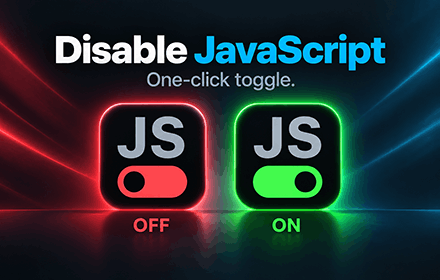
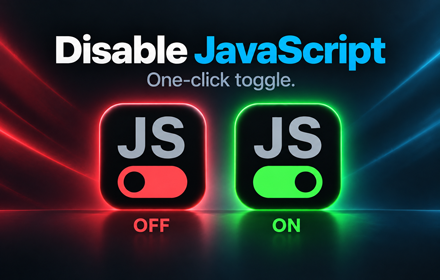
Add higher resolution images

diff --git a/README.md b/README.md
@@ -3,7 +3,7 @@
 
 # Disable JavaScript
 
-![Screenshot](store/disable-javascript-1400x560.png)
+![Screenshot](store/disable-javascript-1400x560.jpg)
 
 Toggle JavaScript on or off for the **current site** from the toolbar. The setting applies to that origin (scheme + host + port), not to every tab in the browser.
 
